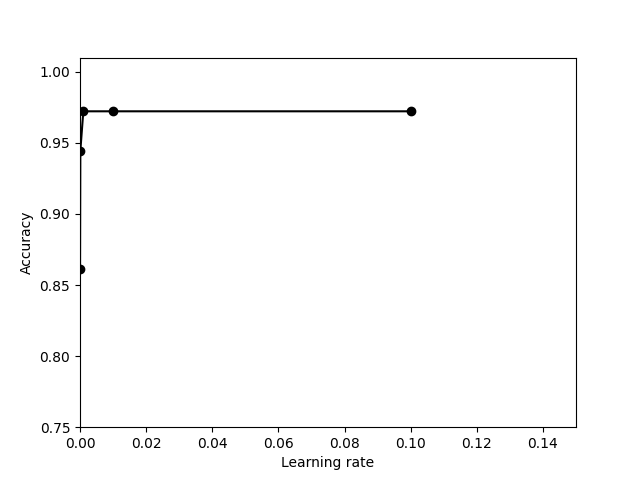
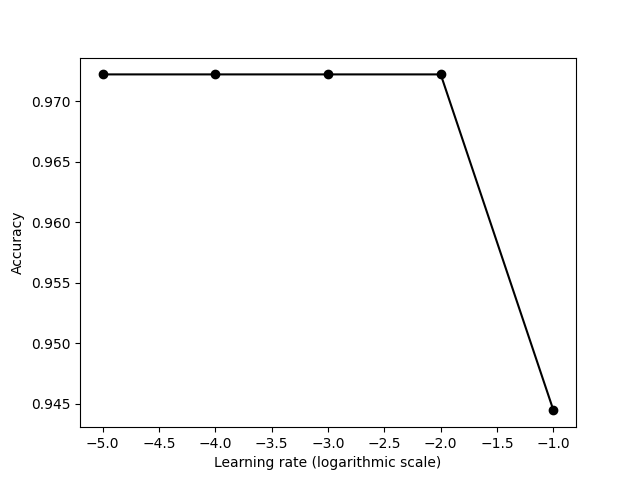
added log scale to accuracy vs learning rate graph

diff --git a/Asgn2/Q2.py b/Asgn2/Q2.py
@@ -65,15 +65,15 @@ def main():
         print("::MLP with learning rate {} accuracy:: =>".format(lr), accuracy)
         accuracy_list.append(accuracy)
 
-    plt.xlim(0, 0.15)
-    plt.ylim(0.75, 1.01)
-    plt.xlabel("Learning rate")
+    # plt.xlim(-0.02, 0.15)
+    # plt.ylim(0.75, 1.01)
+    plt.xlabel("Learning rate (logarithmic scale)")
     plt.ylabel("Accuracy")
-    plt.plot(learning_rate_list, accuracy_list, '-ok')
+    plt.plot(np.log10(learning_rate_list), accuracy_list, '-ok')
 
     plt.savefig("learning_rate_vs_accuracy.png", format="png")
     plt.show()
-
+    
     print("\n::Running forward feature selection algorithm::")
     features = forward_feature_selection(bestMLPC, xTestSet, yTestSet)
 
